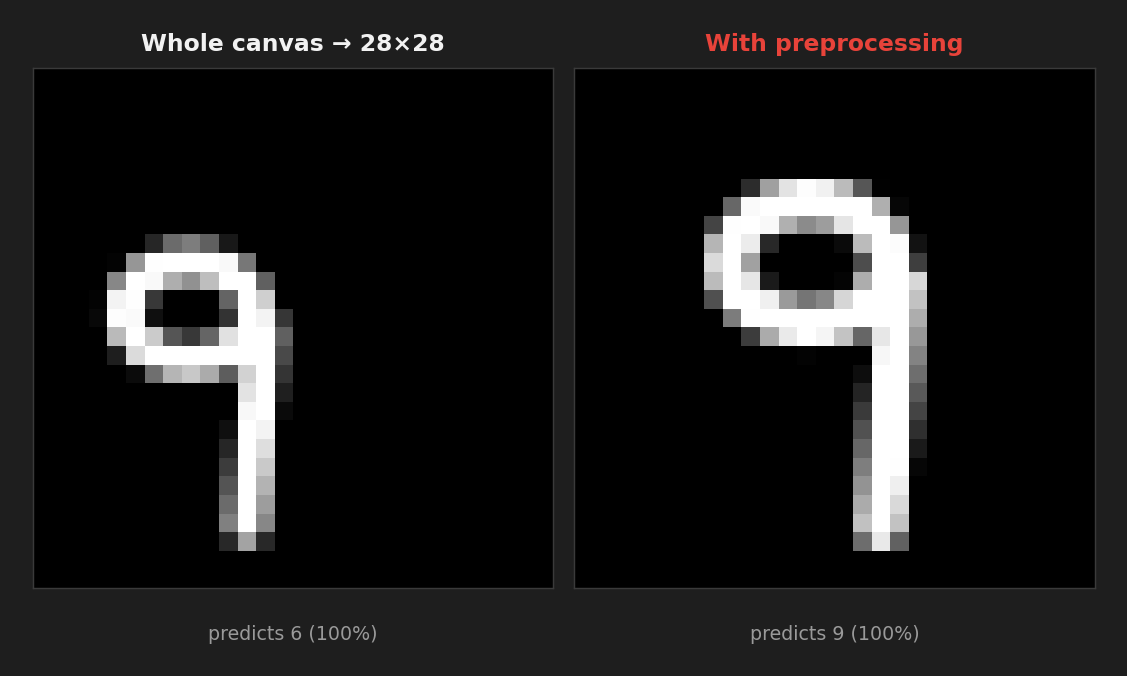
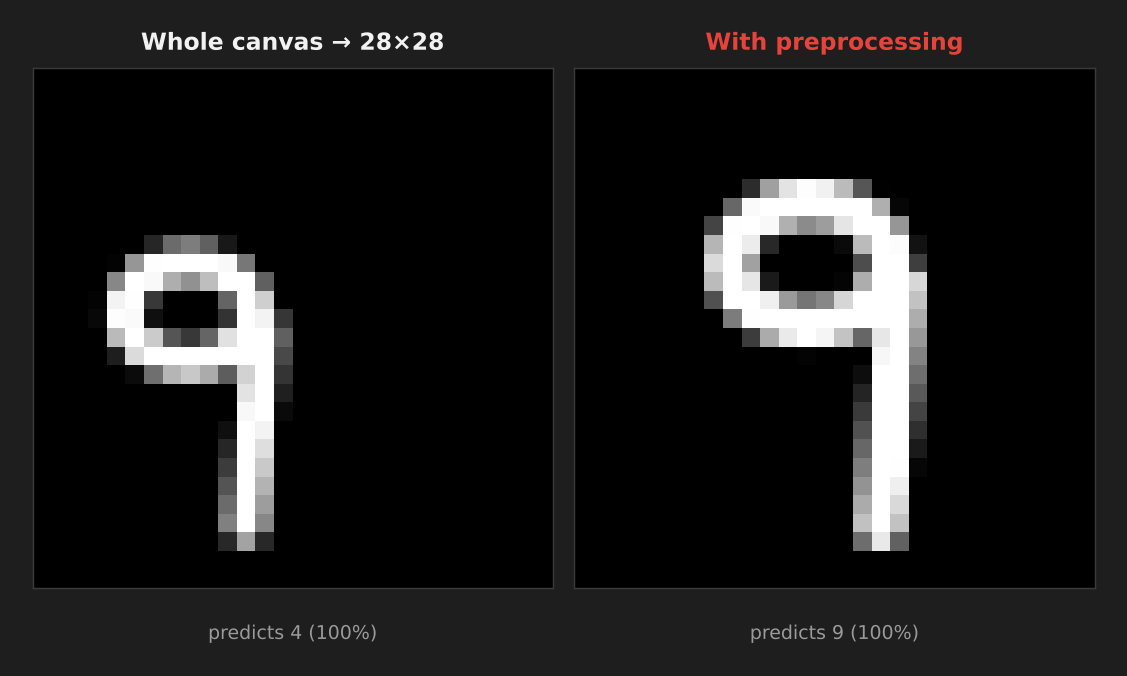
updated readme and images with proper results

diff --git a/README.md b/README.md
@@ -31,8 +31,8 @@ To measure it, I took 300 digits from MNIST's held-out test set (images the mode
 
 | Input to the model | Accuracy |
 |--------------------|----------|
-| Whole canvas shrunk straight to 28×28 | 14% |
-| **After Diglet's preprocessing** | **96%** |
+| Whole canvas shrunk straight to 28×28 | 10% |
+| **After Diglet's preprocessing** | **95%** |
 
 ## How It Works
 
